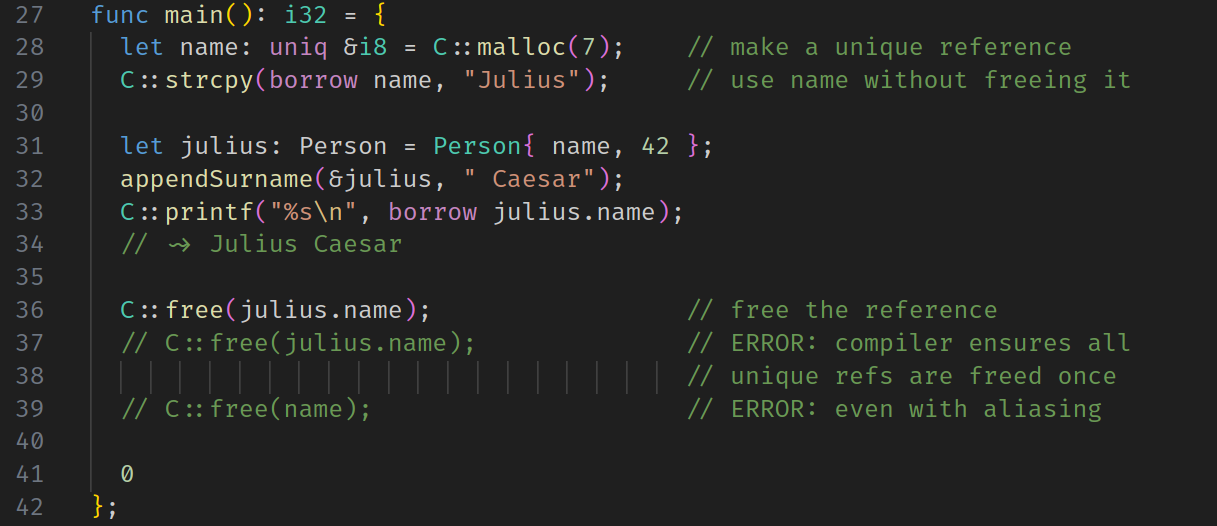
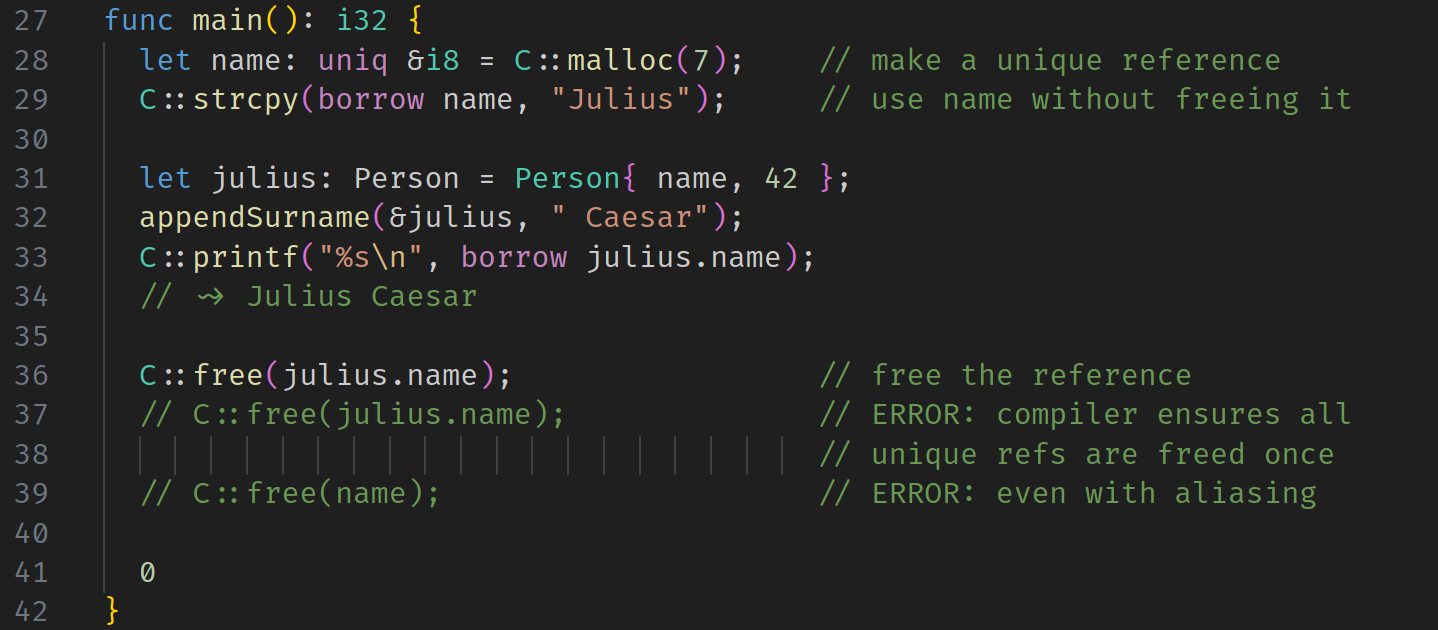
More C-like syntax for functions. `if` and `while` statements don't need terminal semicolons.

diff --git a/src/main/parser/Parser.hpp b/src/main/parser/Parser.hpp
@@ -173,14 +173,6 @@ public:
     }
   }
 
-  BlockExp* blockExp() {
-    Token begin = *p;
-    if (!chomp(Token::LBRACE)) EPSILON
-    ExpList* statements = stmts0(); ARREST_IF_ERROR
-    CHOMP_ELSE_ARREST(Token::RBRACE, "}", "block expression")
-    return new BlockExp(hereFrom(begin), statements);
-  }
-
   Exp* expLv0() {
     Exp* ret;
     ret = nameOrCallOrConstr(); CONTINUE_ON_EPSILON(ret)
@@ -379,7 +371,7 @@ public:
   //=== Statements
   //==========================================================================//
 
-  /// @brief Parses a statement.
+  /// @brief Parses a statement, not including any terminating semicolon.
   Exp* stmt() {
     Exp* ret;
     ret = letStmt(); CONTINUE_ON_EPSILON(ret)
@@ -388,24 +380,26 @@ public:
     EPSILON
   }
 
-  /// @brief Zero or more statements separated by semicolons.
-  /// Never epsilon fails.
-  ExpList* stmts0() {
+  /// @brief Zero or more statements. Never epsilon fails.
+  /// @details Certain statements (like `if` and `while`) do not take a
+  /// terminal semicolon.
+  BlockExp* blockExp() {
     Token begin = *p;
-    llvm::SmallVector<Exp*, 4> ss;
+    if (!chomp(Token::LBRACE)) EPSILON
+    llvm::SmallVector<Exp*> ss;
     Exp* s;
     for (;;) {
       s = stmt();
       if (error == ARRESTING_ERR) return nullptr;
-      if (error == EPSILON_ERR) {
-        error = NOERROR;
-        return new ExpList(hereFrom(begin), ss);
-      }
+      if (error == EPSILON_ERR) break;
       ss.push_back(s);
-      if (!chomp(Token::SEMICOLON)) {
-        return new ExpList(hereFrom(begin), ss);
+      if (!WhileExp::downcast(s) && !IfExp::downcast(s)) {
+        if (!chomp(Token::SEMICOLON)) break;
       }
     }
+    error = NOERROR;
+    CHOMP_ELSE_ARREST(Token::RBRACE, "}", "block expression")
+    return new BlockExp(hereFrom(begin), ss);
   }
 
   LetExp* letStmt() {
@@ -537,10 +531,14 @@ public:
     CHOMP_ELSE_ARREST(Token::COLON, ":", "function")
     TypeExp* retType = typeExp(); ARREST_IF_ERROR
     if (hasBody) {
-      CHOMP_ELSE_ARREST(Token::EQUAL, "=", "function")
-      Exp* body = exp(); ARREST_IF_ERROR
-      CHOMP_ELSE_ARREST(Token::SEMICOLON, ";", "function")
-      return new FunctionDecl(hereFrom(begin), name, params, retType, body);
+      if (chomp(Token::EQUAL)) {
+        Exp* body = exp(); ARREST_IF_ERROR
+        CHOMP_ELSE_ARREST(Token::SEMICOLON, ";", "function")
+        return new FunctionDecl(hereFrom(begin), name, params, retType, body);
+      } else {
+        Exp* body = blockExp(); ARREST_IF_ERROR
+        return new FunctionDecl(hereFrom(begin), name, params, retType, body);
+      }
     } else {
       CHOMP_ELSE_ARREST(Token::SEMICOLON, ";", "function")
       return new FunctionDecl(hereFrom(begin), name, params, retType, nullptr,

diff --git a/src/test/ParserTests.cpp b/src/test/ParserTests.cpp
@@ -111,13 +111,37 @@ namespace ParserTests {
   TEST(block_expression) {
     return expParseTreeShouldBe("{ let x = 10; x; }", {
       "BLOCK",
-      "    EXPLIST",
-      "        LET",
-      "            NAME",
-      "            INT_LIT",
-      "        ENAME",
-      "            NAME",
+      "    LET",
+      "        NAME",
+      "        INT_LIT",
+      "    ENAME",
+      "        NAME",
     });
+  }
+
+  TEST(no_semicolon_after_while) {
+    return expParseTreeShouldBe(
+      "{ let x = 1;\n"
+      "  while (x < 10) { \"blahblahblah\"; }\n"
+      "  printf(\"done\");\n"
+      "}",
+      { "BLOCK",
+        "    LET",
+        "        NAME",
+        "        INT_LIT",
+        "    WHILE",
+        "        BINOP_EXP",
+        "            ENAME",
+        "                NAME",
+        "            INT_LIT",
+        "        BLOCK",
+        "            STRING_LIT",
+        "    CALL",
+        "        NAME",
+        "        EXPLIST",
+        "            STRING_LIT",
+      }
+    );
   }
 
   TEST(main_prints_hello_world) {
@@ -129,11 +153,10 @@ namespace ParserTests {
       "    PARAMLIST",
       "    PRIMITIVE_TEXP",
       "    BLOCK",
-      "        EXPLIST",
-      "            CALL",
-      "                NAME",
-      "                EXPLIST",
-      "                    STRING_LIT",
+      "        CALL",
+      "            NAME",
+      "            EXPLIST",
+      "                STRING_LIT",
     });
   }
 

diff --git a/src/main/common/AST.hpp b/src/main/common/AST.hpp
@@ -402,12 +402,13 @@ public:
 
 /// @brief A block expression.
 class BlockExp : public Exp {
-  ExpList* statements;
+  llvm::SmallVector<Exp*> statements;
 public:
-  BlockExp(Location loc, ExpList* stmts) : Exp(BLOCK, loc), statements(stmts) {}
+  BlockExp(Location loc, llvm::SmallVector<Exp*> statements)
+    : Exp(BLOCK, loc), statements(statements) {}
   static BlockExp* downcast(AST* ast)
     { return ast->id == BLOCK ? static_cast<BlockExp*>(ast) : nullptr; }
-  ExpList* getStatements() const { return statements; }
+  const llvm::SmallVector<Exp*>& getStatements() const { return statements; }
 };
 
 /// @brief A function call.
@@ -702,8 +703,11 @@ llvm::SmallVector<AST*> AST::getASTChildren() {
     return { ast->getLHS(), ast->getRHS() };
   if (auto ast = BinopExp::downcast(this))
     return { ast->getLHS(), ast->getRHS() };
-  if (auto ast = BlockExp::downcast(this))
-    return { ast->getStatements() };
+  if (auto ast = BlockExp::downcast(this)) {
+    llvm::SmallVector<AST*> ret;
+    for (auto elem : ast->getStatements()) ret.push_back(elem);
+    return ret;
+  }
   if (auto ast = BorrowExp::downcast(this))
     return { ast->getRefExp() };
   if (auto ast = CallExp::downcast(this))

diff --git a/src/main/borrowchecker/BorrowChecker.hpp b/src/main/borrowchecker/BorrowChecker.hpp
@@ -58,7 +58,7 @@ public:
     // TODO: make helper function to narrow the location for block exps
     Location loc;
     if (auto block = BlockExp::downcast(body))
-      loc = block->getStatements()->asArrayRef().back()->getLocation();
+      loc = block->getStatements().back()->getLocation();
     else
       loc = body->getLocation();
     for (AccessPath* ext : looseExtensionsOf(retAP, body->getType()))
@@ -115,7 +115,7 @@ public:
     }
     else if (auto e = BlockExp::downcast(_e)) {
       AccessPath* ret = nullptr;
-      for (auto stmt : e->getStatements()->asArrayRef())
+      for (auto stmt : e->getStatements())
         ret = check(stmt);
       return ret;
     }

diff --git a/src/main/typer/Unifier.hpp b/src/main/typer/Unifier.hpp
@@ -122,10 +122,9 @@ public:
     }
 
     else if (auto e = BlockExp::downcast(_e)) {
-      llvm::ArrayRef<Exp*> stmtList = e->getStatements()->asArrayRef();
       Type* lastStmtTy = tc.getUnit();
       localVarTypes.push();
-      for (Exp* stmt : stmtList) lastStmtTy = unifyExp(stmt);
+      for (Exp* stmt : e->getStatements()) lastStmtTy = unifyExp(stmt);
       localVarTypes.pop();
       e->setType(lastStmtTy);
     }

diff --git a/src/main/codegen/Codegen.hpp b/src/main/codegen/Codegen.hpp
@@ -187,9 +187,8 @@ private:
       return nullptr;
     }
     else if (auto e = BlockExp::downcast(exp)) {
-      llvm::ArrayRef<Exp*> stmtList = e->getStatements()->asArrayRef();
       llvm::Value* lastStmtVal = nullptr;
-      for (Exp* stmt : stmtList) {
+      for (Exp* stmt : e->getStatements()) {
         lastStmtVal = genExp(stmt);
       }
       return lastStmtVal;

diff --git a/README.md b/README.md
@@ -122,27 +122,27 @@ Normally it is illegal to use a reference that was not created in the current
 scope. The snippet below illustrates how this can lead to double frees; the
 `main` scope, which creates `x`, does not expect `helper` to free it.
 
-    func main(): unit = {
+    func main(): unit {
       let x = C::malloc(10);
       helper(&x);
       C::free(x);
-    };
+    }
 
-    func helper(xRef: &uniq &i8): unit = {
+    func helper(xRef: &uniq &i8): unit {
       C::free(xRef!);   // ERROR
-    };
+    }
 
 But sometimes using an externally created unique reference is necessary. In
 such cases, MiSCR allows a unique reference to be _moved_ into the current scope
 as long as the moved unique reference is _replaced_ before the scope ends:
 
-    func replaceWithHello(s: &String): unit = {
+    func replaceWithHello(s: &String): unit {
       C::free(move s->ptr);     // OK, but s->ptr must be replaced later
       let newPtr = C::malloc(6);
       C::strcpy(borrow newPtr, "hello");
       s->ptr = newPtr;          // replacing s->ptr
       s->len = 5;
-    };
+    }
 
 The `move` expression has the type `uniq &T -> uniq &T` for any type `T`.
 
@@ -189,9 +189,9 @@ MiSCR should guarantee that every malloc-ed reference is freed exactly once.
 MiSCR does _not_ guarantee the absence of use-after-frees. There is no lifetime
 analysis (yet?), so borrowed references are just as unsafe as C pointers. e.g.,
 
-    func main(): i32 = {
+    func main(): i32 {
       let x: uniq &i8 = C::malloc(10);
       let y: &i8 = borrow x;
       C::free(x);
       C::write(0, y, 10);   // SEGFAULT
-    };
+    }
